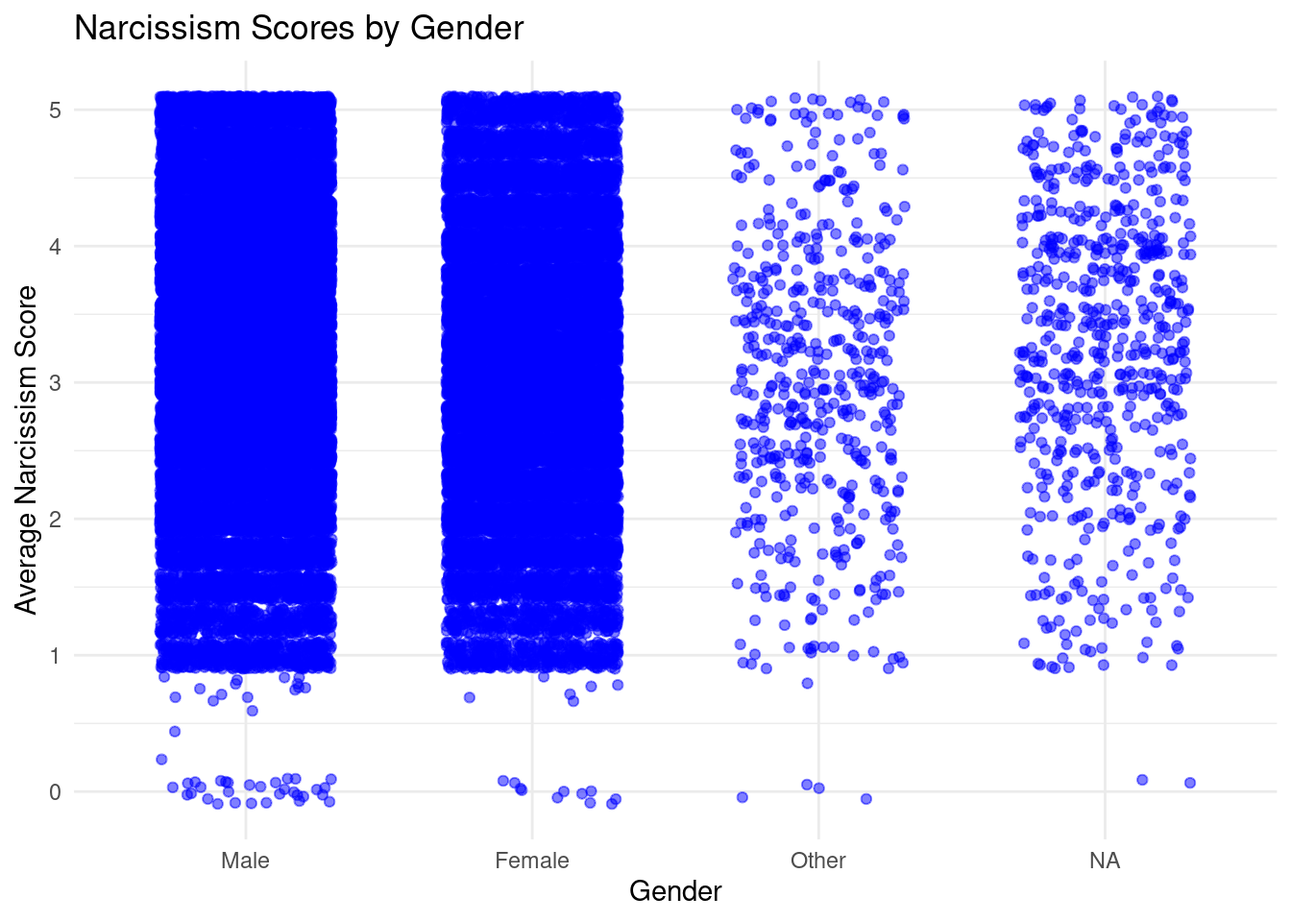
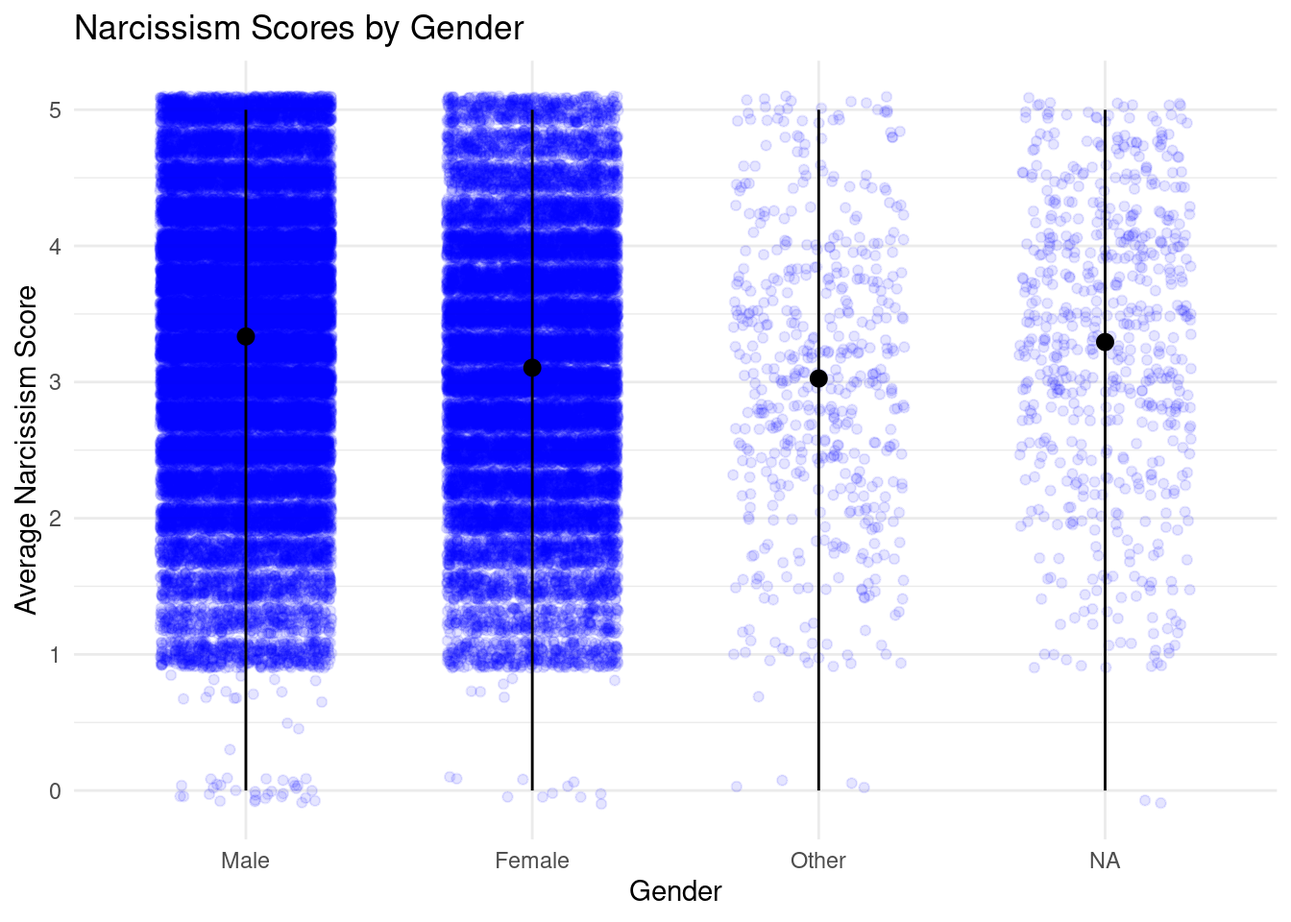
finished?

diff --git a/docs/about.html b/docs/about.html
@@ -163,14 +163,14 @@ pre > code.sourceCode > span > a:first-child::before { text-decoration: underlin
 <section id="introduction" class="level2">
 <h2 data-anchor-id="introduction">Introduction</h2>
 <p>Does gender predict differences in personality traits related to narcissism, psychopathy, and Machiavellianism (known as the Dark Triad)? This question is important to me because it explores how social and developmental factors may influence the expression of darker personality traits. Understanding these patterns could offer insights into how personality is shaped and expressed differently across populations, which is valuable for both psychological research and everyday social awareness.</p>
-<p>-To explore this question, I’m using a dataset from Kaggle that includes responses from an online personality test. While the dataset was not collected through a formal academic study, it uses validated psychological scales — including the Dirty Dozen (Jonason &amp; Webster, 2010) and the Hypersensitive Narcissism Scale (Hendin &amp; Cheek, 1997) — to measure traits related to narcissism, psychopathy, and Machiavellianism.</p>
+<p>-To explore this question,I’m using a dataset titled <em>Hypersensitive Narcissism Dirty Dozen</em> from Kaggle, which includes responses from an online personality test (Peleg, 2021). While the dataset was not collected through a formal academic study, it uses validated psychological scales, including the Dirty Dozen (Jonason &amp; Webster, 2010) and the Hypersensitive Narcissism Scale (Hendin &amp; Cheek, 1997), to measure traits related to narcissism, psychopathy, and Machiavellianism.</p>
 </section>
 <section id="methods" class="level2">
 <h2 data-anchor-id="methods">Methods</h2>
-<section id="dataset-description" class="level4">
-<h4 data-anchor-id="dataset-description"><strong>Dataset Description</strong></h4>
-<p>The dataset used in this project comes from Kaggle, and contains responses to an online personality test centered around the <strong>Dark Triad traits</strong> — narcissism, psychopathy, and Machiavellianism — as well as <strong>hypersensitive narcissism</strong>.</p>
-<p>The data was collected through a publicly available quiz titled the <em>Dark Triad Personality Test</em>. Participants voluntarily completed the test online and answered items based on two validated psychological scales:</p>
+<section id="data-set-description" class="level4">
+<h4 data-anchor-id="data-set-description"><strong>Data set Description</strong></h4>
+<p>The data set used in this project comes from Kaggle, and contains responses to an online personality test centered around the <strong>Dark Triad traits</strong> — narcissism, psychopathy, and Machiavellianism — as well as hypersensitive narcissism.</p>
+<p>The data was collected through a publicly available quiz titled the “Dark Triad Personality Test”. Participants voluntarily completed the test online and answered items based on two psychological scales:</p>
 <ul>
 <li><p><strong>The Dirty Dozen</strong> (Jonason &amp; Webster, 2010), a 12-item measure used to assess narcissism, Machiavellianism, and psychopathy.</p></li>
 <li><p><strong>The Hypersensitive Narcissism Scale</strong> (Hendin &amp; Cheek, 1997), a 10-item scale measuring covert or vulnerable narcissism.</p></li>
@@ -179,7 +179,7 @@ pre > code.sourceCode > span > a:first-child::before { text-decoration: underlin
 </section>
 <section id="variables-included" class="level4">
 <h4 data-anchor-id="variables-included">Variables Included</h4>
-<p>The dataset includes</p>
+<p>The data set includes</p>
 <ul>
 <li><strong>22 personality items</strong>:</li>
 </ul>
@@ -193,7 +193,7 @@ pre > code.sourceCode > span > a:first-child::before { text-decoration: underlin
 -    country
 -    accuracy (0–100)</code></pre>
 <ul>
-<li>Each item was rated on a <strong>5-point Likert scale</strong> (1 = Disagree, 3 = Neutral, 5 = Agree; 0 = unanswered).</li>
+<li>Each item was rated on a 5-point Likert scale (1 = Disagree, 3 = Neutral, 5 = Agree; 0 = unanswered).</li>
 </ul>
 </section>
 <section id="sample-size" class="level4">
@@ -211,45 +211,46 @@ pre > code.sourceCode > span > a:first-child::before { text-decoration: underlin
 <section id="approachpredictions" class="level4">
 <h4 data-anchor-id="approachpredictions">Approach/Predictions</h4>
 <ul>
-<li><p>I will assess whether gender is related to differences in personality traits associated with narcissism, psychopathy, and Machiavellianism, using data from the <strong>Dirty Dozen scale</strong>. I will calculate an average score for each trait using the relevant survey items.</p>
+<li><p>I will assess whether gender is related to differences in personality traits associated with narcissism, psychopathy, and Machiavellianism, using data from the Dirty Dozen scale. I will calculate an average score for each trait using the survey items:</p>
 <ul>
 <li><p><strong>Narcissism:</strong> DDN1 to DDN4</p></li>
 <li><p><strong>Psychopathy:</strong> DDP1 to DDP4</p></li>
 <li><p><strong>Machiavellianism:</strong> DDM1 to DDM4.</p></li>
 </ul></li>
-<li><p>To explore differences by gender, I will create dot plots that display individual participant scores for each trait, grouped by gender (1 = Male, 2 = Female, 3 = Other). These visualizations will help me observe patterns, such as whether one gender tends to have higher or more concentrated scores than others. I will focus on interpreting these visual trends to answer my question.</p></li>
-<li><p>I predict that male participants will have moderately higher average scores than female participants on all three Dark Triad traits: narcissism, psychopathy, and Machiavellianism.</p></li>
+<li><p>To explore differences by gender, I will create dot plots that display individual participant scores for each trait, grouped by gender (1 = Male, 2 = Female, 3 = Other). These graphs will help me observe patterns, such as whether one gender tends to have higher or more concentrated scores than others. I will focus on interpreting these trends to answer my question.</p></li>
+<li><p>I predict that male participants will have moderately higher average scores than female participants on all three Dark Triad traits.</p></li>
 </ul>
 </section>
 </section>
 <section id="results" class="level2">
 <h2 data-anchor-id="results">Results</h2>
 <div class="cell">
-<div class="sourceCode cell-code" id="cb3"><pre class="sourceCode r code-with-copy"><code class="sourceCode r"><span id="cb3-1"><a href="#cb3-1" aria-hidden="true" tabindex="-1"></a><span class="fu">install.packages</span>(<span class="st">"ggplot2"</span>)</span></code><button title="Copy to Clipboard" class="code-copy-button"><i class="bi"></i></button></pre></div>
-<div class="cell-output cell-output-stderr">
-<pre><code>Installing package into '/cloud/lib/x86_64-pc-linux-gnu-library/4.5'
-(as 'lib' is unspecified)</code></pre>
-</div>
-<div class="sourceCode cell-code" id="cb5"><pre class="sourceCode r code-with-copy"><code class="sourceCode r"><span id="cb5-1"><a href="#cb5-1" aria-hidden="true" tabindex="-1"></a><span class="fu">library</span>(ggplot2)</span></code><button title="Copy to Clipboard" class="code-copy-button"><i class="bi"></i></button></pre></div>
+<div class="sourceCode cell-code" id="cb3"><pre class="sourceCode r code-with-copy"><code class="sourceCode r"><span id="cb3-1"><a href="#cb3-1" aria-hidden="true" tabindex="-1"></a><span class="co">#install.packages("ggplot2")</span></span>
+<span id="cb3-2"><a href="#cb3-2" aria-hidden="true" tabindex="-1"></a><span class="fu">library</span>(ggplot2)</span></code><button title="Copy to Clipboard" class="code-copy-button"><i class="bi"></i></button></pre></div>
 </div>
 <div class="cell">
-<div class="sourceCode cell-code" id="cb6"><pre class="sourceCode r code-with-copy"><code class="sourceCode r"><span id="cb6-1"><a href="#cb6-1" aria-hidden="true" tabindex="-1"></a>mydata <span class="ot">&lt;-</span> <span class="fu">read.csv</span>(<span class="st">"nyla_data.csv"</span>) </span></code><button title="Copy to Clipboard" class="code-copy-button"><i class="bi"></i></button></pre></div>
+<div class="sourceCode cell-code" id="cb4"><pre class="sourceCode r code-with-copy"><code class="sourceCode r"><span id="cb4-1"><a href="#cb4-1" aria-hidden="true" tabindex="-1"></a>mydata <span class="ot">&lt;-</span> <span class="fu">read.csv</span>(<span class="st">"nyla_data.csv"</span>) </span></code><button title="Copy to Clipboard" class="code-copy-button"><i class="bi"></i></button></pre></div>
 </div>
 <div class="cell">
-<div class="sourceCode cell-code" id="cb7"><pre class="sourceCode r code-with-copy"><code class="sourceCode r"><span id="cb7-1"><a href="#cb7-1" aria-hidden="true" tabindex="-1"></a>mydata<span class="sc">$</span>gender <span class="ot">&lt;-</span> <span class="fu">factor</span>(mydata<span class="sc">$</span>gender, <span class="at">levels =</span> <span class="fu">c</span>(<span class="dv">1</span>,<span class="dv">2</span>,<span class="dv">3</span>), <span class="at">labels =</span> <span class="fu">c</span>(<span class="st">"Male"</span>, <span class="st">"Female"</span>,<span class="st">"Other"</span>))</span>
-<span id="cb7-2"><a href="#cb7-2" aria-hidden="true" tabindex="-1"></a></span>
-<span id="cb7-3"><a href="#cb7-3" aria-hidden="true" tabindex="-1"></a>scale1_vars <span class="ot">&lt;-</span> <span class="fu">c</span>(<span class="st">"DDN1"</span>, <span class="st">"DDN2"</span>, <span class="st">"DDN3"</span>, <span class="st">"DDN4"</span>)</span>
-<span id="cb7-4"><a href="#cb7-4" aria-hidden="true" tabindex="-1"></a></span>
-<span id="cb7-5"><a href="#cb7-5" aria-hidden="true" tabindex="-1"></a>mydata<span class="sc">$</span>narcissism <span class="ot">&lt;-</span> <span class="fu">rowMeans</span>(mydata[, scale1_vars], <span class="at">na.rm =</span> <span class="cn">TRUE</span>)</span>
-<span id="cb7-6"><a href="#cb7-6" aria-hidden="true" tabindex="-1"></a></span>
-<span id="cb7-7"><a href="#cb7-7" aria-hidden="true" tabindex="-1"></a><span class="fu">ggplot</span>(mydata, <span class="fu">aes</span>(<span class="at">x =</span> gender, <span class="at">y =</span> narcissism)) <span class="sc">+</span></span>
-<span id="cb7-8"><a href="#cb7-8" aria-hidden="true" tabindex="-1"></a>  <span class="fu">geom_jitter</span>(<span class="at">width =</span> <span class="fl">0.3</span>, <span class="at">size=</span> <span class="fl">1.5</span>, <span class="at">alpha =</span> <span class="fl">0.5</span>, <span class="at">color =</span> <span class="st">"blue"</span>) <span class="sc">+</span></span>
-<span id="cb7-9"><a href="#cb7-9" aria-hidden="true" tabindex="-1"></a>  <span class="fu">labs</span>(</span>
-<span id="cb7-10"><a href="#cb7-10" aria-hidden="true" tabindex="-1"></a>    <span class="at">x =</span> <span class="st">"Gender"</span>,</span>
-<span id="cb7-11"><a href="#cb7-11" aria-hidden="true" tabindex="-1"></a>    <span class="at">y =</span> <span class="st">"Average Narcissism Score"</span>,</span>
-<span id="cb7-12"><a href="#cb7-12" aria-hidden="true" tabindex="-1"></a>    <span class="at">title =</span> <span class="st">"Narcissism Scores by Gender"</span></span>
-<span id="cb7-13"><a href="#cb7-13" aria-hidden="true" tabindex="-1"></a>  ) <span class="sc">+</span></span>
-<span id="cb7-14"><a href="#cb7-14" aria-hidden="true" tabindex="-1"></a>  <span class="fu">theme_minimal</span>()</span></code><button title="Copy to Clipboard" class="code-copy-button"><i class="bi"></i></button></pre></div>
+<div class="sourceCode cell-code" id="cb5"><pre class="sourceCode r code-with-copy"><code class="sourceCode r"><span id="cb5-1"><a href="#cb5-1" aria-hidden="true" tabindex="-1"></a>mydata<span class="sc">$</span>gender <span class="ot">&lt;-</span> <span class="fu">factor</span>(mydata<span class="sc">$</span>gender, <span class="at">levels =</span> <span class="fu">c</span>(<span class="dv">1</span>,<span class="dv">2</span>,<span class="dv">3</span>), <span class="at">labels =</span> <span class="fu">c</span>(<span class="st">"Male"</span>, <span class="st">"Female"</span>,<span class="st">"Other"</span>))</span>
+<span id="cb5-2"><a href="#cb5-2" aria-hidden="true" tabindex="-1"></a></span>
+<span id="cb5-3"><a href="#cb5-3" aria-hidden="true" tabindex="-1"></a>scale1_vars <span class="ot">&lt;-</span> <span class="fu">c</span>(<span class="st">"DDN1"</span>, <span class="st">"DDN2"</span>, <span class="st">"DDN3"</span>, <span class="st">"DDN4"</span>)</span>
+<span id="cb5-4"><a href="#cb5-4" aria-hidden="true" tabindex="-1"></a></span>
+<span id="cb5-5"><a href="#cb5-5" aria-hidden="true" tabindex="-1"></a>mydata<span class="sc">$</span>narcissism <span class="ot">&lt;-</span> <span class="fu">rowMeans</span>(mydata[, scale1_vars], <span class="at">na.rm =</span> <span class="cn">TRUE</span>)</span>
+<span id="cb5-6"><a href="#cb5-6" aria-hidden="true" tabindex="-1"></a></span>
+<span id="cb5-7"><a href="#cb5-7" aria-hidden="true" tabindex="-1"></a><span class="fu">ggplot</span>(mydata, <span class="fu">aes</span>(<span class="at">x =</span> gender, <span class="at">y =</span> narcissism)) <span class="sc">+</span></span>
+<span id="cb5-8"><a href="#cb5-8" aria-hidden="true" tabindex="-1"></a>  <span class="fu">geom_jitter</span>(<span class="at">width =</span> <span class="fl">0.3</span>, <span class="at">size=</span> <span class="fl">1.5</span>, <span class="at">alpha =</span> <span class="fl">0.1</span>, <span class="at">color =</span> <span class="st">"blue"</span>) <span class="sc">+</span></span>
+<span id="cb5-9"><a href="#cb5-9" aria-hidden="true" tabindex="-1"></a>  <span class="fu">labs</span>(</span>
+<span id="cb5-10"><a href="#cb5-10" aria-hidden="true" tabindex="-1"></a>    <span class="at">x =</span> <span class="st">"Gender"</span>,</span>
+<span id="cb5-11"><a href="#cb5-11" aria-hidden="true" tabindex="-1"></a>    <span class="at">y =</span> <span class="st">"Average Narcissism Score"</span>,</span>
+<span id="cb5-12"><a href="#cb5-12" aria-hidden="true" tabindex="-1"></a>    <span class="at">title =</span> <span class="st">"Narcissism Scores by Gender"</span></span>
+<span id="cb5-13"><a href="#cb5-13" aria-hidden="true" tabindex="-1"></a>  ) <span class="sc">+</span> <span class="fu">stat_summary</span>(</span>
+<span id="cb5-14"><a href="#cb5-14" aria-hidden="true" tabindex="-1"></a>    <span class="at">fun.min =</span> min,</span>
+<span id="cb5-15"><a href="#cb5-15" aria-hidden="true" tabindex="-1"></a>    </span>
+<span id="cb5-16"><a href="#cb5-16" aria-hidden="true" tabindex="-1"></a>    <span class="at">fun.max =</span> max,</span>
+<span id="cb5-17"><a href="#cb5-17" aria-hidden="true" tabindex="-1"></a>    <span class="at">fun =</span> mean</span>
+<span id="cb5-18"><a href="#cb5-18" aria-hidden="true" tabindex="-1"></a>  )<span class="sc">+</span></span>
+<span id="cb5-19"><a href="#cb5-19" aria-hidden="true" tabindex="-1"></a>  <span class="fu">theme_minimal</span>()</span></code><button title="Copy to Clipboard" class="code-copy-button"><i class="bi"></i></button></pre></div>
 <div class="cell-output-display">
 <div>
 <figure class="figure">
@@ -259,20 +260,23 @@ pre > code.sourceCode > span > a:first-child::before { text-decoration: underlin
 </div>
 </div>
 <div class="cell">
-<div class="sourceCode cell-code" id="cb8"><pre class="sourceCode r code-with-copy"><code class="sourceCode r"><span id="cb8-1"><a href="#cb8-1" aria-hidden="true" tabindex="-1"></a>mydata<span class="sc">$</span>gender <span class="ot">&lt;-</span> <span class="fu">factor</span>(mydata<span class="sc">$</span>gender, <span class="at">levels =</span> <span class="fu">c</span>(<span class="dv">1</span>,<span class="dv">2</span>,<span class="dv">3</span>), <span class="at">labels =</span> <span class="fu">c</span>(<span class="st">"Male"</span>, <span class="st">"Female"</span>,<span class="st">"Other"</span>))</span>
-<span id="cb8-2"><a href="#cb8-2" aria-hidden="true" tabindex="-1"></a></span>
-<span id="cb8-3"><a href="#cb8-3" aria-hidden="true" tabindex="-1"></a>scale1_vars <span class="ot">&lt;-</span> <span class="fu">c</span>(<span class="st">"DDP1"</span>, <span class="st">"DDP2"</span>, <span class="st">"DDP3"</span>, <span class="st">"DDP4"</span>)</span>
-<span id="cb8-4"><a href="#cb8-4" aria-hidden="true" tabindex="-1"></a></span>
-<span id="cb8-5"><a href="#cb8-5" aria-hidden="true" tabindex="-1"></a>mydata<span class="sc">$</span>psychopathy <span class="ot">&lt;-</span> <span class="fu">rowMeans</span>(mydata[, scale1_vars], <span class="at">na.rm =</span> <span class="cn">TRUE</span>)</span>
-<span id="cb8-6"><a href="#cb8-6" aria-hidden="true" tabindex="-1"></a></span>
-<span id="cb8-7"><a href="#cb8-7" aria-hidden="true" tabindex="-1"></a><span class="fu">ggplot</span>(mydata, <span class="fu">aes</span>(<span class="at">x =</span> gender, <span class="at">y =</span> psychopathy)) <span class="sc">+</span></span>
-<span id="cb8-8"><a href="#cb8-8" aria-hidden="true" tabindex="-1"></a>  <span class="fu">geom_jitter</span>(<span class="at">width =</span> <span class="fl">0.3</span>, <span class="at">size=</span> <span class="fl">1.5</span>, <span class="at">alpha =</span> <span class="fl">0.5</span>, <span class="at">color =</span> <span class="st">"darkgreen"</span>) <span class="sc">+</span></span>
-<span id="cb8-9"><a href="#cb8-9" aria-hidden="true" tabindex="-1"></a>  <span class="fu">labs</span>(</span>
-<span id="cb8-10"><a href="#cb8-10" aria-hidden="true" tabindex="-1"></a>    <span class="at">x =</span> <span class="st">"Gender"</span>,</span>
-<span id="cb8-11"><a href="#cb8-11" aria-hidden="true" tabindex="-1"></a>    <span class="at">y =</span> <span class="st">"Average Psychopathy Score"</span>,</span>
-<span id="cb8-12"><a href="#cb8-12" aria-hidden="true" tabindex="-1"></a>    <span class="at">title =</span> <span class="st">"Psychopathy Scores by Gender"</span></span>
-<span id="cb8-13"><a href="#cb8-13" aria-hidden="true" tabindex="-1"></a>  ) <span class="sc">+</span></span>
-<span id="cb8-14"><a href="#cb8-14" aria-hidden="true" tabindex="-1"></a>  <span class="fu">theme_minimal</span>() </span></code><button title="Copy to Clipboard" class="code-copy-button"><i class="bi"></i></button></pre></div>
+<div class="sourceCode cell-code" id="cb6"><pre class="sourceCode r code-with-copy"><code class="sourceCode r"><span id="cb6-1"><a href="#cb6-1" aria-hidden="true" tabindex="-1"></a>scale1_vars <span class="ot">&lt;-</span> <span class="fu">c</span>(<span class="st">"DDP1"</span>, <span class="st">"DDP2"</span>, <span class="st">"DDP3"</span>, <span class="st">"DDP4"</span>)</span>
+<span id="cb6-2"><a href="#cb6-2" aria-hidden="true" tabindex="-1"></a></span>
+<span id="cb6-3"><a href="#cb6-3" aria-hidden="true" tabindex="-1"></a>mydata<span class="sc">$</span>psychopathy <span class="ot">&lt;-</span> <span class="fu">rowMeans</span>(mydata[, scale1_vars], <span class="at">na.rm =</span> <span class="cn">TRUE</span>)</span>
+<span id="cb6-4"><a href="#cb6-4" aria-hidden="true" tabindex="-1"></a></span>
+<span id="cb6-5"><a href="#cb6-5" aria-hidden="true" tabindex="-1"></a><span class="fu">ggplot</span>(mydata, <span class="fu">aes</span>(<span class="at">x =</span> gender, <span class="at">y =</span> psychopathy)) <span class="sc">+</span></span>
+<span id="cb6-6"><a href="#cb6-6" aria-hidden="true" tabindex="-1"></a>  <span class="fu">geom_jitter</span>(<span class="at">width =</span> <span class="fl">0.3</span>, <span class="at">size=</span> <span class="fl">1.5</span>, <span class="at">alpha =</span> <span class="fl">0.1</span>, <span class="at">color =</span> <span class="st">"darkgreen"</span>) <span class="sc">+</span></span>
+<span id="cb6-7"><a href="#cb6-7" aria-hidden="true" tabindex="-1"></a>  <span class="fu">labs</span>(</span>
+<span id="cb6-8"><a href="#cb6-8" aria-hidden="true" tabindex="-1"></a>    <span class="at">x =</span> <span class="st">"Gender"</span>,</span>
+<span id="cb6-9"><a href="#cb6-9" aria-hidden="true" tabindex="-1"></a>    <span class="at">y =</span> <span class="st">"Average Psychopathy Score"</span>,</span>
+<span id="cb6-10"><a href="#cb6-10" aria-hidden="true" tabindex="-1"></a>    <span class="at">title =</span> <span class="st">"Psychopathy Scores by Gender"</span></span>
+<span id="cb6-11"><a href="#cb6-11" aria-hidden="true" tabindex="-1"></a>  ) <span class="sc">+</span></span>
+<span id="cb6-12"><a href="#cb6-12" aria-hidden="true" tabindex="-1"></a>  <span class="fu">stat_summary</span>(</span>
+<span id="cb6-13"><a href="#cb6-13" aria-hidden="true" tabindex="-1"></a>    <span class="at">fun.min =</span> min,</span>
+<span id="cb6-14"><a href="#cb6-14" aria-hidden="true" tabindex="-1"></a>    <span class="at">fun.max =</span> max,</span>
+<span id="cb6-15"><a href="#cb6-15" aria-hidden="true" tabindex="-1"></a>    <span class="at">fun =</span> mean</span>
+<span id="cb6-16"><a href="#cb6-16" aria-hidden="true" tabindex="-1"></a>  ) <span class="sc">+</span></span>
+<span id="cb6-17"><a href="#cb6-17" aria-hidden="true" tabindex="-1"></a>  <span class="fu">theme_minimal</span>() </span></code><button title="Copy to Clipboard" class="code-copy-button"><i class="bi"></i></button></pre></div>
 <div class="cell-output-display">
 <div>
 <figure class="figure">
@@ -284,20 +288,23 @@ pre > code.sourceCode > span > a:first-child::before { text-decoration: underlin
 <p><br>
 </p>
 <div class="cell">
-<div class="sourceCode cell-code" id="cb9"><pre class="sourceCode r code-with-copy"><code class="sourceCode r"><span id="cb9-1"><a href="#cb9-1" aria-hidden="true" tabindex="-1"></a>mydata<span class="sc">$</span>gender <span class="ot">&lt;-</span> <span class="fu">factor</span>(mydata<span class="sc">$</span>gender, <span class="at">levels =</span> <span class="fu">c</span>(<span class="dv">1</span>,<span class="dv">2</span>,<span class="dv">3</span>), <span class="at">labels =</span> <span class="fu">c</span>(<span class="st">"Male"</span>, <span class="st">"Female"</span>,<span class="st">"Other"</span>)) </span>
-<span id="cb9-2"><a href="#cb9-2" aria-hidden="true" tabindex="-1"></a></span>
-<span id="cb9-3"><a href="#cb9-3" aria-hidden="true" tabindex="-1"></a>scale1_vars <span class="ot">&lt;-</span> <span class="fu">c</span>(<span class="st">"DDM1"</span>, <span class="st">"DDM2"</span>, <span class="st">"DDM3"</span>, <span class="st">"DDM4"</span>)</span>
-<span id="cb9-4"><a href="#cb9-4" aria-hidden="true" tabindex="-1"></a></span>
-<span id="cb9-5"><a href="#cb9-5" aria-hidden="true" tabindex="-1"></a>mydata<span class="sc">$</span>machiavellianism <span class="ot">&lt;-</span> <span class="fu">rowMeans</span>(mydata[, scale1_vars], <span class="at">na.rm =</span> <span class="cn">TRUE</span>)</span>
-<span id="cb9-6"><a href="#cb9-6" aria-hidden="true" tabindex="-1"></a></span>
-<span id="cb9-7"><a href="#cb9-7" aria-hidden="true" tabindex="-1"></a><span class="fu">ggplot</span>(mydata, <span class="fu">aes</span>(<span class="at">x =</span> gender, <span class="at">y =</span> machiavellianism)) <span class="sc">+</span></span>
-<span id="cb9-8"><a href="#cb9-8" aria-hidden="true" tabindex="-1"></a>  <span class="fu">geom_jitter</span>(<span class="at">width =</span> <span class="fl">0.3</span>, <span class="at">size=</span> <span class="fl">1.5</span>, <span class="at">alpha =</span> <span class="fl">0.5</span>, <span class="at">color =</span> <span class="st">"blue"</span>) <span class="sc">+</span></span>
-<span id="cb9-9"><a href="#cb9-9" aria-hidden="true" tabindex="-1"></a>  <span class="fu">labs</span>(</span>
-<span id="cb9-10"><a href="#cb9-10" aria-hidden="true" tabindex="-1"></a>    <span class="at">x =</span> <span class="st">"Gender"</span>,</span>
-<span id="cb9-11"><a href="#cb9-11" aria-hidden="true" tabindex="-1"></a>    <span class="at">y =</span> <span class="st">"Average Machiavellianism Score"</span>,</span>
-<span id="cb9-12"><a href="#cb9-12" aria-hidden="true" tabindex="-1"></a>    <span class="at">title =</span> <span class="st">"Machiavellianism Scores by Gender"</span></span>
-<span id="cb9-13"><a href="#cb9-13" aria-hidden="true" tabindex="-1"></a>  ) <span class="sc">+</span></span>
-<span id="cb9-14"><a href="#cb9-14" aria-hidden="true" tabindex="-1"></a>  <span class="fu">theme_minimal</span>()</span></code><button title="Copy to Clipboard" class="code-copy-button"><i class="bi"></i></button></pre></div>
+<div class="sourceCode cell-code" id="cb7"><pre class="sourceCode r code-with-copy"><code class="sourceCode r"><span id="cb7-1"><a href="#cb7-1" aria-hidden="true" tabindex="-1"></a>scale1_vars <span class="ot">&lt;-</span> <span class="fu">c</span>(<span class="st">"DDM1"</span>, <span class="st">"DDM2"</span>, <span class="st">"DDM3"</span>, <span class="st">"DDM4"</span>)</span>
+<span id="cb7-2"><a href="#cb7-2" aria-hidden="true" tabindex="-1"></a></span>
+<span id="cb7-3"><a href="#cb7-3" aria-hidden="true" tabindex="-1"></a>mydata<span class="sc">$</span>machiavellianism <span class="ot">&lt;-</span> <span class="fu">rowMeans</span>(mydata[, scale1_vars], <span class="at">na.rm =</span> <span class="cn">TRUE</span>)</span>
+<span id="cb7-4"><a href="#cb7-4" aria-hidden="true" tabindex="-1"></a></span>
+<span id="cb7-5"><a href="#cb7-5" aria-hidden="true" tabindex="-1"></a><span class="fu">ggplot</span>(mydata, <span class="fu">aes</span>(<span class="at">x =</span> gender, <span class="at">y =</span> machiavellianism)) <span class="sc">+</span></span>
+<span id="cb7-6"><a href="#cb7-6" aria-hidden="true" tabindex="-1"></a>  <span class="fu">geom_jitter</span>(<span class="at">width =</span> <span class="fl">0.3</span>, <span class="at">size=</span> <span class="fl">1.5</span>, <span class="at">alpha =</span> <span class="fl">0.1</span>, <span class="at">color =</span> <span class="st">"purple"</span>) <span class="sc">+</span></span>
+<span id="cb7-7"><a href="#cb7-7" aria-hidden="true" tabindex="-1"></a>  <span class="fu">labs</span>(</span>
+<span id="cb7-8"><a href="#cb7-8" aria-hidden="true" tabindex="-1"></a>    <span class="at">x =</span> <span class="st">"Gender"</span>,</span>
+<span id="cb7-9"><a href="#cb7-9" aria-hidden="true" tabindex="-1"></a>    <span class="at">y =</span> <span class="st">"Average Machiavellianism Score"</span>,</span>
+<span id="cb7-10"><a href="#cb7-10" aria-hidden="true" tabindex="-1"></a>    <span class="at">title =</span> <span class="st">"Machiavellianism Scores by Gender"</span></span>
+<span id="cb7-11"><a href="#cb7-11" aria-hidden="true" tabindex="-1"></a>  ) <span class="sc">+</span></span>
+<span id="cb7-12"><a href="#cb7-12" aria-hidden="true" tabindex="-1"></a>  <span class="fu">stat_summary</span>(</span>
+<span id="cb7-13"><a href="#cb7-13" aria-hidden="true" tabindex="-1"></a>    <span class="at">fun.min =</span> min,</span>
+<span id="cb7-14"><a href="#cb7-14" aria-hidden="true" tabindex="-1"></a>    <span class="at">fun.max =</span> max,</span>
+<span id="cb7-15"><a href="#cb7-15" aria-hidden="true" tabindex="-1"></a>    <span class="at">fun =</span> mean</span>
+<span id="cb7-16"><a href="#cb7-16" aria-hidden="true" tabindex="-1"></a>  ) <span class="sc">+</span></span>
+<span id="cb7-17"><a href="#cb7-17" aria-hidden="true" tabindex="-1"></a>  <span class="fu">theme_minimal</span>()</span></code><button title="Copy to Clipboard" class="code-copy-button"><i class="bi"></i></button></pre></div>
 <div class="cell-output-display">
 <div>
 <figure class="figure">
@@ -306,13 +313,21 @@ pre > code.sourceCode > span > a:first-child::before { text-decoration: underlin
 </div>
 </div>
 </div>
+<section id="conclusion" class="level4">
+<h4 data-anchor-id="conclusion">Conclusion:</h4>
+<p>Based on the data, males tended to score higher on average across all three Dark Triad traits compared to females and participants identifying as “Other.”</p>
+</section>
+</section>
+<section id="discussion" class="level2">
+<h2 data-anchor-id="discussion">Discussion:</h2>
+<p>My hypothesis was that males would score higher on all three Dark Triad traits. Based on the graphs, this was mostly supported. Males had slightly higher average scores across all traits. This makes me believe in my hypothesis more.</p>
 
 
 </section>
 </main> 
   <hr class="about-sep">
    <div class="about-links">
-  <a href="/www.linkedin.com/in/nyla-mcclinton-bba58a356" class="about-link" rel="" target="">
+  <a href="https://www.linkedin.com/in/nyla-mcclinton-bba58a356" class="about-link" rel="" target="">
     <i class="bi bi-linkedin"></i>
      <span class="about-link-text">LinkedIn</span>
   </a>

diff --git a/docs/index.html b/docs/index.html
@@ -192,7 +192,7 @@ window.Quarto = {
 <!-- margin-sidebar -->
     <div id="quarto-margin-sidebar" class="sidebar margin-sidebar">
         
-    <h5 class="quarto-listing-category-title">Categories</h5><div class="quarto-listing-category category-default"><div class="category" data-category="">All <span class="quarto-category-count">(1)</span></div><div class="category" data-category="Z2VuZXJhbA==">general <span class="quarto-category-count">(1)</span></div><div class="category" data-category="Z29hbHM=">goals <span class="quarto-category-count">(1)</span></div></div></div>
+    <h5 class="quarto-listing-category-title">Categories</h5><div class="quarto-listing-category category-default"><div class="category" data-category="">All <span class="quarto-category-count">(1)</span></div></div></div>
 <!-- main -->
 <main class="content quarto-banner-title-block column-page-left" id="quarto-document-content">
 
@@ -201,14 +201,13 @@ window.Quarto = {
 
 
 <p>Welcome to my website showing off my R portfolio.</p>
-<p>I created this website to show off how smart I am.</p>
 
 
 
 
 <div class="quarto-listing quarto-listing-container-default" id="listing-listing">
 <div class="list quarto-listing-default">
-<div class="quarto-post image-right" data-index="0" data-categories="Z29hbHMlMkNnZW5lcmFs" data-listing-date-sort="1754438400000" data-listing-file-modified-sort="1754506468097" data-listing-date-modified-sort="NaN" data-listing-reading-time-sort="1" data-listing-word-count-sort="101">
+<div class="quarto-post image-right" data-index="0" data-listing-date-sort="1754438400000" data-listing-file-modified-sort="1754661887780" data-listing-date-modified-sort="NaN" data-listing-reading-time-sort="1" data-listing-word-count-sort="93">
 <div class="thumbnail"><a href="./posts/my_first_post/index.html" class="no-external">
 
 <p class="card-img-top"><img src="posts/my_first_post/v1033-b-04-b.jpg"  class="thumbnail-image card-img"/></p>
@@ -218,15 +217,8 @@ window.Quarto = {
 <h3 class="no-anchor listing-title">
 <a href="./posts/my_first_post/index.html" class="no-external">My Project</a>
 </h3>
-<div class="listing-categories">
-
-<div class="listing-category" onclick="window.quartoListingCategory('Z29hbHM='); return false;">goals</div>
-
-<div class="listing-category" onclick="window.quartoListingCategory('Z2VuZXJhbA=='); return false;">general</div>
-
-</div>
 <div class="delink listing-description"><a href="./posts/my_first_post/index.html" class="no-external">
-This is an example first post. Whatever you write here will appear inside your post.
+Hi! I’m Nyla McClinton, a behavioral neuroscience major at Dominican University in Illinois.
 </a></div>
 </div>
 <div class="metadata">

diff --git a/docs/posts/my_first_post/index.html b/docs/posts/my_first_post/index.html
@@ -117,11 +117,7 @@ ul.task-list li input[type="checkbox"] {
   <div class="quarto-title-banner page-columns page-full">
     <div class="quarto-title column-body">
       <h1 class="title">My Project</h1>
-                                <div class="quarto-categories">
-                <div class="quarto-category">goals</div>
-                <div class="quarto-category">general</div>
-              </div>
-                  </div>
+                      </div>
   </div>
     
   
@@ -156,28 +152,18 @@ ul.task-list li input[type="checkbox"] {
 
 
 
-<p>This is an example first post. Whatever you write here will appear inside your post.</p>
-<p>It is possible to write lists:</p>
-<ol type="1">
-<li>One</li>
-<li>Two</li>
-<li>Three</li>
-</ol>
-<p>And make headers</p>
-<section id="this-is-a-second-level-heading" class="level2">
-<h2 class="anchored" data-anchor-id="this-is-a-second-level-heading">This is a second level heading</h2>
-<p>You can include images, and many other kinds of content.</p>
-<p>If you are using the visual editor in Rstudio you can drag images onto the editor to insert them into the document. Otherwise, you need to place the image inside of the folder for this post, and then you can insert it to your post directly, like this:</p>
+<p>Hi! I’m Nyla McClinton, a behavioral neuroscience major at Dominican University in Illinois.</p>
+<p>This website was built as a portfolio project to explore psychological traits using real-world data and data tools in R. I analyzed responses from a personality dataset focused on the Dark Triad traits — narcissism, psychopathy, and Machiavellianism — and visualized how these traits vary across gender.</p>
+<p>This project showcases my skills in data organization and creating graphs in R using ggplot2, all published through Quarto.</p>
+<p>Feel free to explore my visualizations and see how psychology and data analysis intersect.</p>
 <div class="quarto-figure quarto-figure-center">
 <figure class="figure">
 <p><img src="v1033-b-04-b.jpg" class="img-fluid figure-img"></p>
 <figcaption>A heart for you.</figcaption>
 </figure>
 </div>
-<p>The first image in a blog post will also be used on the listings page.</p>
 
 
-</section>
 
 </main> <!-- /main -->
 <script id="quarto-html-after-body" type="application/javascript">
